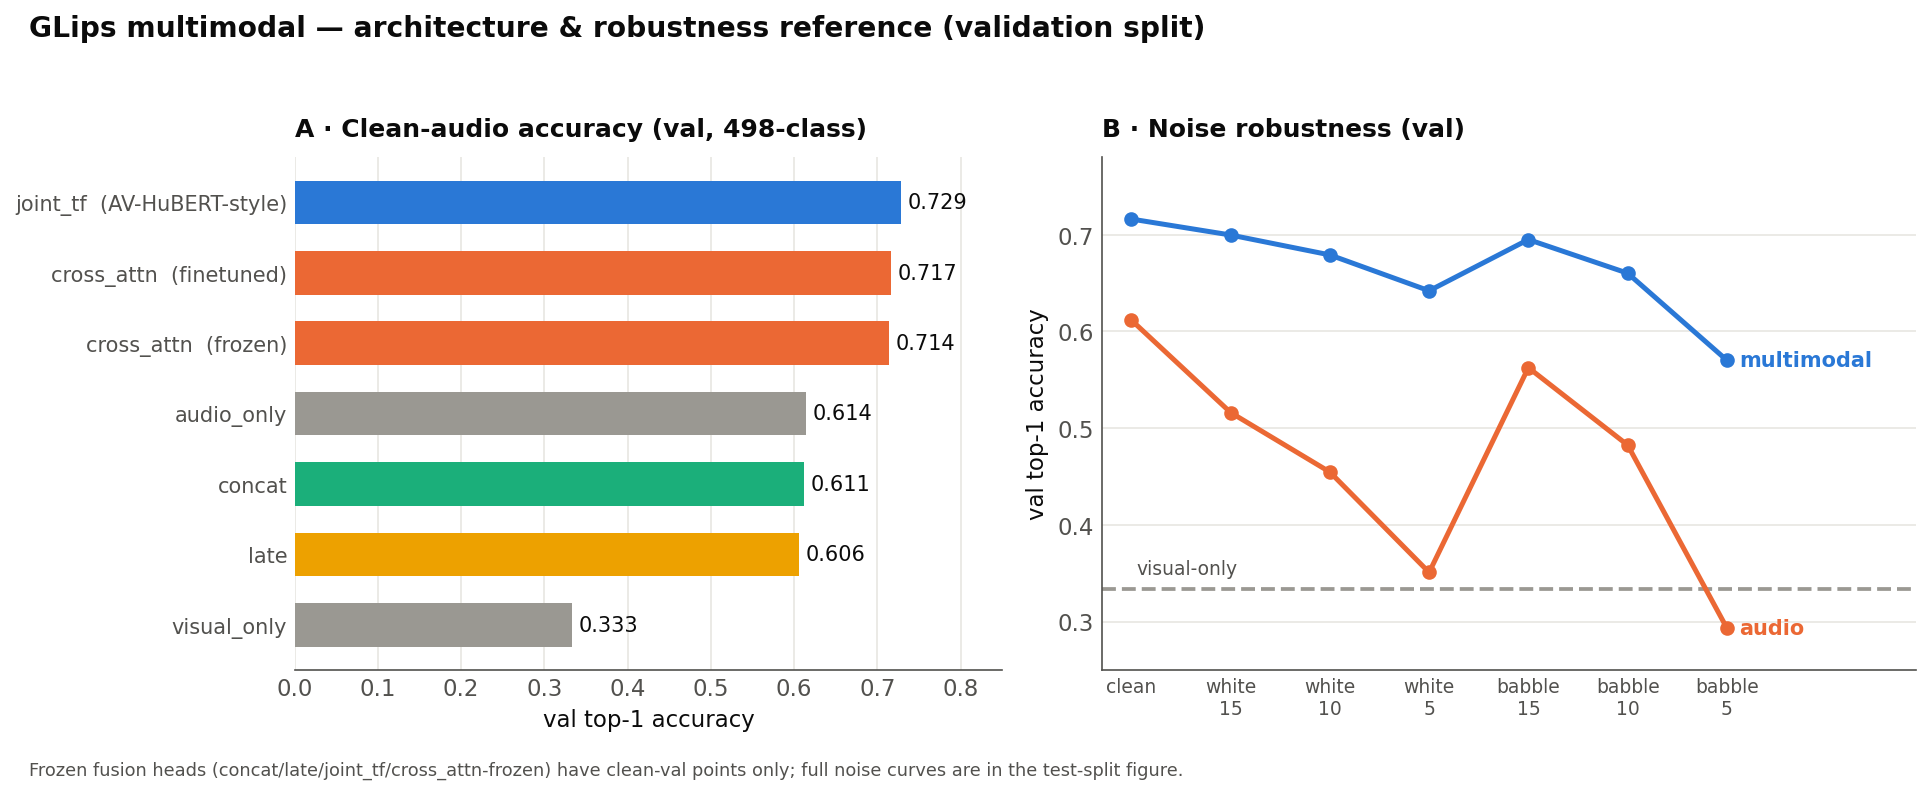
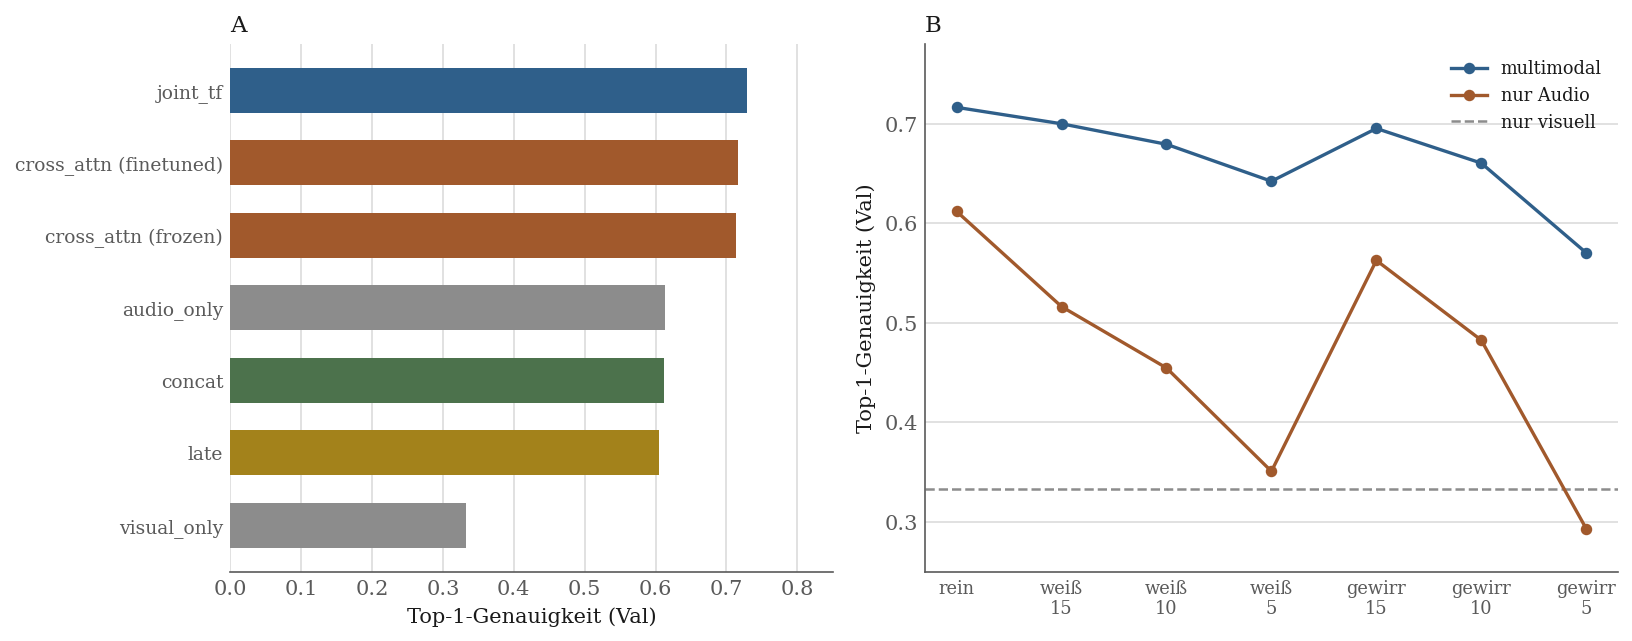
fix plots

diff --git a/multimodal/plots/make_val_figure.py b/multimodal/plots/make_val_figure.py
@@ -7,65 +7,57 @@ import matplotlib.pyplot as plt
 HERE = os.path.dirname(os.path.abspath(__file__))
 OUT = os.path.join(HERE, 'val_reference.png')
 
-BLUE, ORANGE, AQUA, YELLOW = '#2a78d6', '#eb6834', '#1baf7a', '#eda100'
-INK, MUTED, GRID = '#0b0b0b', '#52514e', '#e7e6e2'
-BASE = '#9a9892'   # baseline gray (audio/visual references)
+BLUE, ORANGE, GREEN, GOLD = '#2f5f8a', '#a1592c', '#4c724c', '#a3821b'
+INK, MUTED, GRID = '#1a1a1a', '#5a5a5a', '#dcdcdc'
+BASE = '#8c8c8c'   # baseline gray (audio/visual references)
 
 clean = [
-    ('joint_tf  (AV-HuBERT-style)', 0.7286, BLUE),
-    ('cross_attn  (finetuned)',     0.7166, ORANGE),
-    ('cross_attn  (frozen)',        0.7141, ORANGE),
-    ('audio_only',                  0.6137, BASE),
-    ('concat',                      0.6113, AQUA),
-    ('late',                        0.6055, YELLOW),
-    ('visual_only',                 0.3332, BASE),
+    ('joint_tf',                 0.7286, BLUE),
+    ('cross_attn (finetuned)',   0.7166, ORANGE),
+    ('cross_attn (frozen)',      0.7141, ORANGE),
+    ('audio_only',               0.6137, BASE),
+    ('concat',                   0.6113, GREEN),
+    ('late',                     0.6055, GOLD),
+    ('visual_only',              0.3332, BASE),
 ]
 
-scen = ['clean', 'white\n15', 'white\n10', 'white\n5', 'babble\n15', 'babble\n10', 'babble\n5']
+scen = ['rein', 'weiß\n15', 'weiß\n10', 'weiß\n5', 'gewirr\n15', 'gewirr\n10', 'gewirr\n5']
 multimodal = [0.7163, 0.6998, 0.6792, 0.6421, 0.6951, 0.6603, 0.5702]
 audio_only = [0.6118, 0.5162, 0.4546, 0.3508, 0.5626, 0.4825, 0.2932]
 visual_flat = 0.3332
 
-plt.rcParams.update({'font.size': 11, 'font.family': 'DejaVu Sans',
+plt.rcParams.update({'font.size': 10, 'font.family': 'serif',
                      'axes.edgecolor': MUTED, 'text.color': INK,
                      'axes.labelcolor': INK, 'xtick.color': MUTED, 'ytick.color': MUTED})
-fig, (axA, axB) = plt.subplots(1, 2, figsize=(13, 5.2), gridspec_kw={'width_ratios': [1, 1.15]})
+fig, (axA, axB) = plt.subplots(1, 2, figsize=(11, 4.4), gridspec_kw={'width_ratios': [1, 1.15]})
 
 names = [n for n, _, _ in clean][::-1]
 vals = [v for _, v, _ in clean][::-1]
 cols = [c for _, _, c in clean][::-1]
 y = range(len(names))
 axA.barh(list(y), vals, color=cols, height=0.62, zorder=3)
-for yi, v in zip(y, vals):
-    axA.text(v + 0.008, yi, f'{v:.3f}', va='center', ha='left', fontsize=10, color=INK)
-axA.set_yticks(list(y)); axA.set_yticklabels(names, fontsize=10)
-axA.set_xlim(0, 0.85); axA.set_xlabel('val top-1 accuracy')
-axA.set_title('A · Clean-audio accuracy (val, 498-class)', fontsize=12, weight='bold', loc='left', pad=10)
+axA.set_yticks(list(y)); axA.set_yticklabels(names, fontsize=9)
+axA.set_xlim(0, 0.85); axA.set_xlabel('Top-1-Genauigkeit (Val)')
+axA.set_title('A', fontsize=11, loc='left')
 axA.xaxis.grid(True, color=GRID, zorder=0); axA.set_axisbelow(True)
 for s in ('top', 'right', 'left'):
     axA.spines[s].set_visible(False)
 axA.tick_params(length=0)
 
 x = range(len(scen))
-axB.plot(x, multimodal, '-o', color=BLUE, lw=2.4, ms=6, zorder=4, label='multimodal (shipped)')
-axB.plot(x, audio_only, '-o', color=ORANGE, lw=2.4, ms=6, zorder=4, label='audio-only')
-axB.axhline(visual_flat, ls='--', lw=1.8, color=BASE, zorder=2, label='visual-only (flat)')
-axB.text(len(scen) - 1 + 0.12, multimodal[-1], 'multimodal', color=BLUE, va='center', fontsize=10, weight='bold')
-axB.text(len(scen) - 1 + 0.12, audio_only[-1], 'audio', color=ORANGE, va='center', fontsize=10, weight='bold')
-axB.text(0.05, visual_flat + 0.012, 'visual-only', color=MUTED, va='bottom', fontsize=9)
-axB.set_xticks(list(x)); axB.set_xticklabels(scen, fontsize=9)
-axB.set_ylim(0.25, 0.78); axB.set_xlim(-0.3, len(scen) + 0.9)
-axB.set_ylabel('val top-1 accuracy')
-axB.set_title('B · Noise robustness (val)', fontsize=12, weight='bold', loc='left', pad=10)
+axB.plot(x, multimodal, '-o', color=BLUE, lw=1.6, ms=4.5, zorder=4, label='multimodal')
+axB.plot(x, audio_only, '-o', color=ORANGE, lw=1.6, ms=4.5, zorder=4, label='nur Audio')
+axB.axhline(visual_flat, ls='--', lw=1.2, color=BASE, zorder=2, label='nur visuell')
+axB.set_xticks(list(x)); axB.set_xticklabels(scen, fontsize=8.5)
+axB.set_ylim(0.25, 0.78); axB.set_xlim(-0.3, len(scen) - 0.7)
+axB.set_ylabel('Top-1-Genauigkeit (Val)')
+axB.set_title('B', fontsize=11, loc='left')
 axB.yaxis.grid(True, color=GRID, zorder=0); axB.set_axisbelow(True)
 for s in ('top', 'right'):
     axB.spines[s].set_visible(False)
 axB.tick_params(length=0)
+axB.legend(frameon=False, fontsize=8.5, loc='upper right')
 
-fig.suptitle('GLips multimodal — architecture & robustness reference (validation split)',
-             fontsize=13.5, weight='bold', x=0.02, ha='left')
-fig.text(0.02, 0.005, 'Frozen fusion heads (concat/late/joint_tf/cross_attn-frozen) have clean-val points only; '
-         'full noise curves are in the test-split figure.', fontsize=8.5, color=MUTED, ha='left')
-fig.tight_layout(rect=[0, 0.03, 1, 0.95])
+fig.tight_layout()
 fig.savefig(OUT, dpi=150, bbox_inches='tight', facecolor='white')
 print(f'wrote {OUT}')

diff --git a/multimodal/plots/make_test_figure.py b/multimodal/plots/make_test_figure.py
@@ -9,59 +9,53 @@ HERE = os.path.dirname(os.path.abspath(__file__))
 ROOT = os.path.dirname(HERE)
 OUT = os.path.join(HERE, 'test_scenarios.png')
 
-INK, MUTED, GRID = '#0b0b0b', '#52514e', '#e7e6e2'
+INK, MUTED, GRID = '#1a1a1a', '#5a5a5a', '#dcdcdc'
 STYLE = {  # system -> (color, linestyle, marker, label, zorder)
-    'joint_tf (AV-HuBERT-style)': ('#2a78d6', '-', 'o', 'joint_tf (AV-HuBERT-style)', 6),
-    'cross_attn (frozen)':        ('#eb6834', '-', 's', 'cross_attn', 6),
-    'concat':                     ('#1baf7a', '-', '^', 'concat', 5),
-    'late':                       ('#eda100', '-', 'D', 'late', 5),
-    'audio_only':                 ('#e87ba4', '-', 'v', 'audio-only', 5),
-    'visual_only':                ('#9a9892', '--', None, 'visual-only', 3),
+    'joint_tf (AV-HuBERT-style)': ('#2f5f8a', '-', 'o', 'joint_tf', 6),
+    'cross_attn (frozen)':        ('#a1592c', '-', 's', 'cross_attn', 6),
+    'concat':                     ('#4c724c', '-', '^', 'concat', 5),
+    'late':                       ('#a3821b', '-', 'D', 'late', 5),
+    'audio_only':                 ('#7a4a6a', '-', 'v', 'nur Audio', 5),
+    'visual_only':                ('#8c8c8c', '--', None, 'nur visuell', 3),
 }
 PLOT_ORDER = ['joint_tf (AV-HuBERT-style)', 'cross_attn (frozen)', 'concat', 'late',
               'audio_only', 'visual_only']
 
 data = {}
-with open(os.path.join(ROOT, 'results', 'master_scenarios_500.csv')) as f:
+with open(os.path.join(ROOT, 'results', 'master_scenarios.csv')) as f:
     for r in csv.DictReader(f):
         data[r['system']] = {k: (float(v) if v else None) for k, v in r.items() if k != 'system'}
 
-XLAB = ['clean', '15 dB', '10 dB', '5 dB']
+XLAB = ['rein', '15 dB', '10 dB', '5 dB']
 WHITE = ['clean', 'white 15', 'white 10', 'white 5']
 BABBLE = ['clean', 'babble 15', 'babble 10', 'babble 5']
 
-plt.rcParams.update({'font.size': 11, 'font.family': 'DejaVu Sans', 'text.color': INK,
+plt.rcParams.update({'font.size': 10, 'font.family': 'serif', 'text.color': INK,
                      'axes.labelcolor': INK, 'xtick.color': MUTED, 'ytick.color': MUTED,
                      'axes.edgecolor': MUTED})
-fig, (axW, axB) = plt.subplots(1, 2, figsize=(13, 5.6), sharey=True)
+fig, (axW, axB) = plt.subplots(1, 2, figsize=(11, 4.6), sharey=True)
 
-for ax, cols, title in [(axW, WHITE, 'White noise'), (axB, BABBLE, 'Babble noise')]:
+for ax, cols, title in [(axW, WHITE, 'Weißes Rauschen'), (axB, BABBLE, 'Stimmengewirr')]:
     x = range(4)
     for sysname in PLOT_ORDER:
         color, ls, mk, lab, z = STYLE[sysname]
         y = [data[sysname][c] for c in cols]
-        ax.plot(x, y, ls, color=color, marker=mk, lw=2.4, ms=6, zorder=z,
-                label=lab if ax is axW else None,
-                markeredgecolor='white', markeredgewidth=0.8 if mk else 0)
+        ax.plot(x, y, ls, color=color, marker=mk, lw=1.6, ms=4.5, zorder=z,
+                label=lab if ax is axW else None)
     ax.set_xticks(list(x)); ax.set_xticklabels(XLAB)
-    ax.set_xlabel('audio SNR  (clean → 5 dB)')
-    ax.set_title(title, fontsize=12, weight='bold', loc='left', pad=8)
+    ax.set_xlabel('Signal-Rausch-Verhältnis')
+    ax.set_title(title, fontsize=11, loc='left')
     ax.set_ylim(0.27, 0.77)
     ax.yaxis.grid(True, color=GRID, zorder=0); ax.set_axisbelow(True)
     for s in ('top', 'right'):
         ax.spines[s].set_visible(False)
     ax.tick_params(length=0)
-axW.set_ylabel('test top-1 accuracy')
+axW.set_ylabel('Top-1-Genauigkeit (Test)')
 
 handles, labels = axW.get_legend_handles_labels()
 fig.legend(handles, labels, ncol=6, loc='lower center', bbox_to_anchor=(0.5, -0.02),
-           frameon=False, fontsize=10, columnspacing=1.4, handletextpad=0.5)
+           frameon=False, fontsize=9, columnspacing=1.3, handletextpad=0.4)
 
-fig.suptitle('GLips multimodal — architecture robustness across noise (test split, 500-class)',
-             fontsize=13.5, weight='bold', x=0.02, ha='left')
-fig.text(0.02, 0.045, 'concat/late tie audio-only at clean but stay far above it under noise '
-         '(visual fallback); audio-only collapses toward the visual-only floor.',
-         fontsize=9, color=MUTED, ha='left')
-fig.tight_layout(rect=[0, 0.09, 1, 0.95])
+fig.tight_layout(rect=[0, 0.08, 1, 1])
 fig.savefig(OUT, dpi=150, bbox_inches='tight', facecolor='white')
 print(f'wrote {OUT}')
